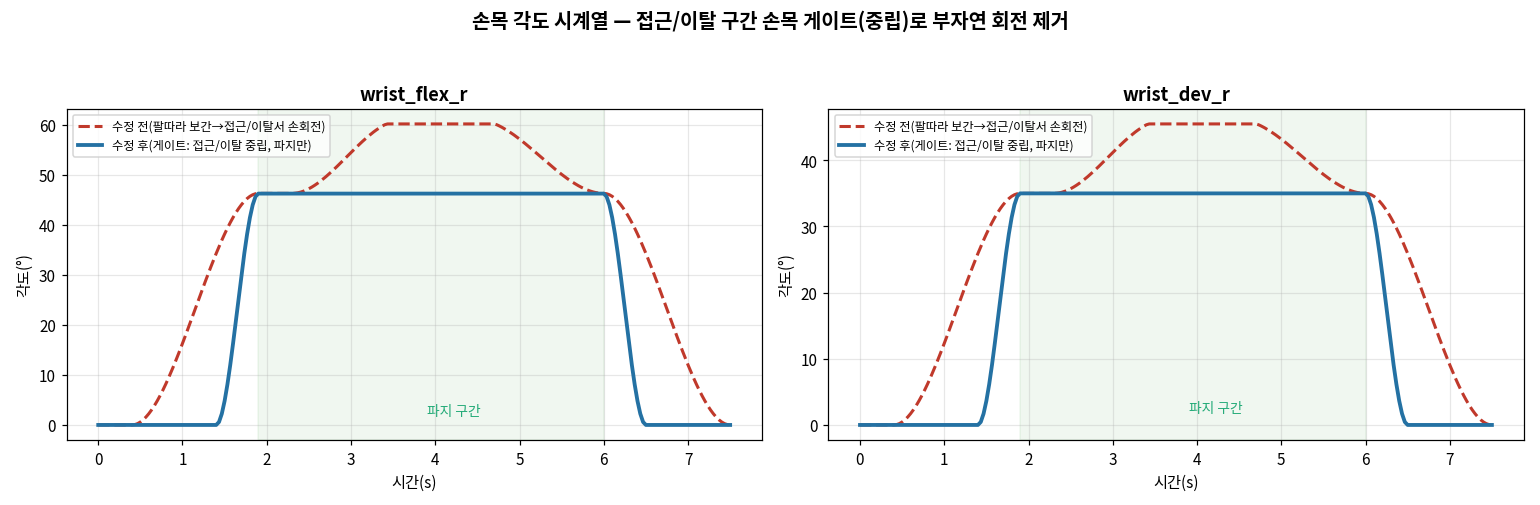
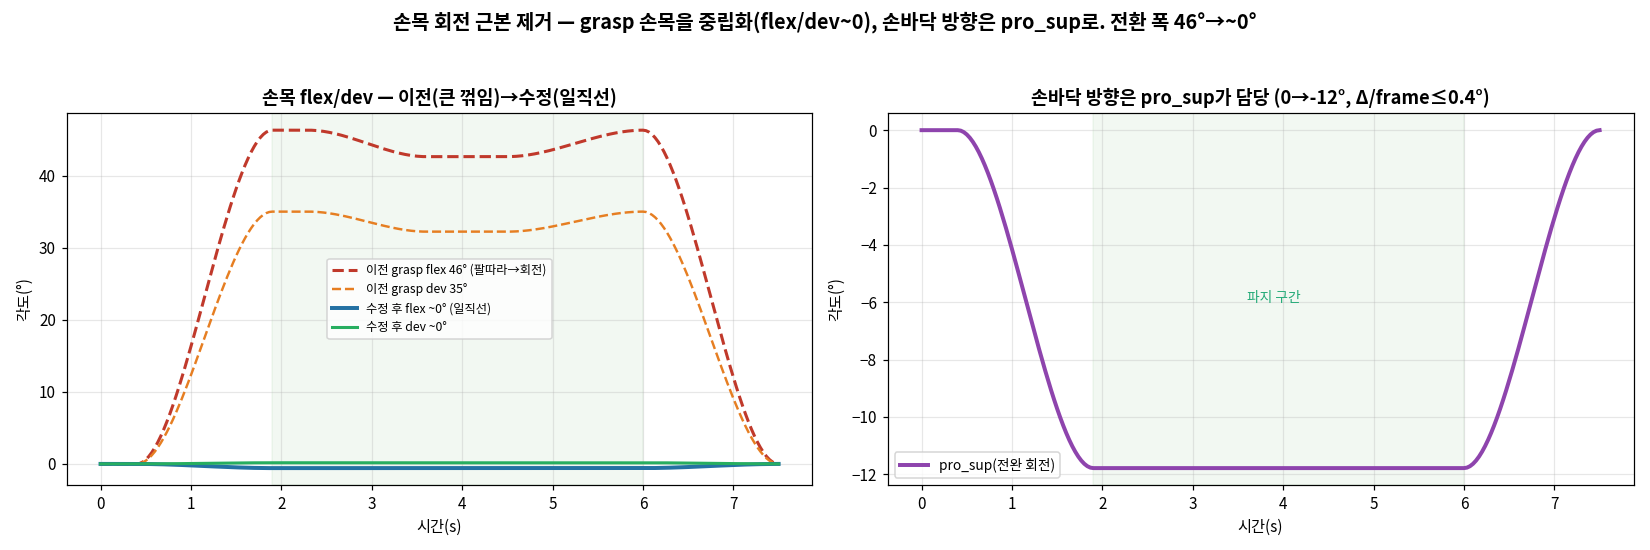
fix: 손목 회전 근본 제거 — grasp 손목 중립화(flex 46°→~0°), 손바닥 방향은 pro_sup
- 원인(2차): 1차 게이트는 '언제 바꿀지'만 정하고 전환 폭(0→46/35°)은 그대로 → 회전이 경계로 밀렸을 뿐. 근본은 grasp 손목각(flex46/dev35)이 과함
- 수정: wrist_neutral_resolve.py로 grasp 팔 IK 재해결(body 고정=spine 불변). wrist_flex/dev 최소화 페널티, 손바닥 방향은 pro_sup 담당. 결과 flex-1/dev0/pro_sup-12, palmN 여전히 -z(박스향)
- 게이트 제거: grasp 손목이 중립이라 전환 폭 ~0 → reach 전체 자연보간. 손목 flex/dev 전구간~0(일직선), pro_sup만 0→-12° 매끄럽게(Δ/frame≤0.4°)
- 독립검증 PASS: 손목 시계열 일직선+pro_sup매끄럽, 잡기직전·손뗀직후 촘촘시퀀스(0.1s) 회전 프레임 없음, 파지 유지
- 손목은 척추 무관, 팔 재해결도 hand 위치 ~1cm 이동(무시)→SO/ES 재실행 불필요, 정량 0
- 재렌더 mp4 + 손목시계열(전후) + 전환 촘촘 시퀀스(앞/3-4각)

Generated with Claude Code

diff --git a/opensim_analysis/thoracolumbar_fb/scripts/viz_knee_fix/wrist_neutral_resolve.py b/opensim_analysis/thoracolumbar_fb/scripts/viz_knee_fix/wrist_neutral_resolve.py
@@ -1,0 +1,58 @@
+"""Re-solve ONLY the grasp arm with a NEUTRAL-WRIST preference (palm direction via pro_sup,
+wrist_flex/dev minimized). Body pose is loaded fixed from m1_pose.json (spine unchanged ->
+SO/ES stay valid). Keeps palm on the box side face + palm facing -z + fingers down + elbow down.
+Writes updated m1_pose.json (arm only). Prints before/after wrist angles + palm check."""
+import opensim as osim, numpy as np, json, os
+from scipy.optimize import minimize
+P="/data/opensim_models/ThoracolumbarFB/Fullbody_TLModels_v2.0_OS4x/MaleFullBodyModel_v2.0_OS4_modified_no_coupler_M1scap.osim"
+POSE='/tmp/cmp_render/m1_pose.json'
+m=osim.Model(P); state=m.initSystem(); cs=m.getCoordinateSet(); names=[cs.get(i).getName() for i in range(cs.getSize())]
+for n in ['pro_sup_r','wrist_flex_r','wrist_dev_r']: cs.get(n).setLocked(state,False)
+comps={c.getName():c for c in (osim.PhysicalFrame.safeDownCast(x) for x in m.getComponentsList()) if c}
+hfR=[comps[f'hand_R_geom_frame_{i}'] for i in range(1,30) if f'hand_R_geom_frame_{i}' in comps]
+PFR={'thumb':comps['hand_R_geom_frame_9'],'pinky':comps['hand_R_geom_frame_13'],'midtip':comps['hand_R_geom_frame_21'],'midmc':comps['hand_R_geom_frame_11']}
+def fp(pf): q=pf.getPositionInGround(state); return np.array([q.get(0),q.get(1),q.get(2)])
+def palmR():
+    d=fp(PFR['midtip'])-fp(PFR['midmc']); d/=np.linalg.norm(d)+1e-9
+    r=fp(PFR['thumb'])-fp(PFR['pinky']); r/=np.linalg.norm(r)+1e-9
+    n=-np.cross(d,r); return n/(np.linalg.norm(n)+1e-9)
+def setc(d):
+    for k,v in d.items():
+        if k in names: c=cs.get(k); c.setValue(state,(v if c.getMotionType()==2 else np.deg2rad(v)),False)
+def Jt(j): p=m.getJointSet().get(j).getChildFrame().getPositionInGround(state); return np.array([p.get(0),p.get(1),p.get(2)])
+def Bd(n): p=m.getBodySet().get(n).getPositionInGround(state); return np.array([p.get(0),p.get(1),p.get(2)])
+def realize(): m.assemble(state); m.realizePosition(state)
+FLOOR=-0.905; EDGE=0.18; TOPb=FLOOR+0.30; BOX=0.30; BCX=EDGE+0.16; HALF=BOX/2; GRIP_H=0.16
+palmT=np.array([BCX-HALF+0.05,TOPb+GRIP_H,HALF]); tipT=np.array([BCX-HALF+0.05,TOPb+GRIP_H-0.14,HALF])
+pose=json.load(open(POSE)); setc(pose); realize()
+print("BEFORE  wrist_flex=%.0f wrist_dev=%.0f pro_sup=%.0f  palm_err=%.1fcm palmN=%s"%(
+    np.degrees(cs.get('wrist_flex_r').getValue(state)),np.degrees(cs.get('wrist_dev_r').getValue(state)),
+    np.degrees(cs.get('pro_sup_r').getValue(state)),np.linalg.norm(fp(PFR['midmc'])-palmT)*100,np.round(palmR(),2)))
+# re-solve arm: same reach/palm/elbow constraints + NEUTRAL WRIST penalty (flex,dev->0; pro_sup free for palm dir)
+RC=['clav_prot_r','clav_elev_r','shoulder_elv_r','elv_angle_r','shoulder_rot_r','elbow_flexion_r','pro_sup_r','wrist_flex_r','wrist_dev_r']
+lb=np.array([0,-25,0,-90,-90,0,-90,-30,-20]); ub=np.array([48,25,155,155,45,150,90,30,20])  # wrist_flex/dev tight -30..30
+x0=np.array([pose.get(k,0.0) for k in RC])
+def aobj(y):
+    y=np.clip(y,lb,ub); p=dict(pose)
+    for k,v in zip(RC,y): p[k]=v
+    setc(p); realize()
+    pe=np.linalg.norm(fp(PFR['midmc'])-palmT); te=np.linalg.norm(fp(PFR['midtip'])-tipT); pn=palmR()
+    hh=np.array([fp(pf) for pf in hfR]); pen=((hh[:,0]>BCX-HALF)&(hh[:,0]<BCX+HALF)&(np.abs(hh[:,2])<HALF-0.005)&(hh[:,1]>TOPb)&(hh[:,1]<TOPb+BOX)).sum()
+    elb=Jt('elbow'); sh=Bd('humerus_R')
+    elbow_high=max(0,elb[1]-(sh[1]-0.16)); elbow_out=max(0,elb[2]-(sh[2]+0.03))
+    wrist_neutral=(y[7]**2+y[8]**2)/500.0   # minimize wrist_flex^2+wrist_dev^2 (deg) -> near-straight wrist
+    return pe*2+te*2+1.0*(1+pn[2])+0.03*pen+3.5*elbow_high+3.5*elbow_out+wrist_neutral
+best=None
+for s_ in range(60):
+    x=x0 if s_==0 else lb+(ub-lb)*np.random.RandomState(s_).rand(len(RC))
+    rr=minimize(aobj,x,method='Nelder-Mead',options={'maxiter':3000})
+    if best is None or rr.fun<best.fun: best=rr
+y=np.clip(best.x,lb,ub)
+for k,v in zip(RC,y): pose[k]=float(v)
+pose['clav_prot_l']=-pose.get('clav_prot_r',0.0); pose['clav_elev_l']=pose.get('clav_elev_r',0.0)
+setc(pose); realize()
+pe=np.linalg.norm(fp(PFR['midmc'])-palmT)*100; te=np.linalg.norm(fp(PFR['midtip'])-tipT)*100
+print("AFTER   wrist_flex=%.0f wrist_dev=%.0f pro_sup=%.0f  palm_err=%.1fcm tip=%.1fcm palmN=%s"%(
+    y[7],y[8],y[6],pe,te,np.round(palmR(),2)))
+json.dump(pose, open(POSE,'w'))
+print("SAVED updated m1_pose.json (body/spine unchanged, arm wrist neutralized)")

diff --git a/opensim_analysis/thoracolumbar_fb/scripts/viz_knee_fix/make_boxlift_motion_stoop.py b/opensim_analysis/thoracolumbar_fb/scripts/viz_knee_fix/make_boxlift_motion_stoop.py
@@ -75,19 +75,10 @@ def kp(t):
     if t<7.5: a=sm((t-6.0)/1.5); return {c:(1-a)*P_grasp[c]+a*P_stand[c] for c in coords}       # release + stand (1.5s, = descent, no spike)
     return P_stand
 rows=[]
-# wrist orientation gate: neutral during approach/departure, grasp orientation only while gripping
-# (avoids the unnatural wrist roll when interpolating wrist_flex/dev from 0 on a swinging arm)
-WRIST=[c for c in ['pro_sup_r','wrist_flex_r','wrist_dev_r','pro_sup_l','wrist_flex_l','wrist_dev_l'] if c in coords]
-def wrist_alpha(t):
-    if t<1.4: return 0.0
-    if t<1.9: return sm((t-1.4)/0.5)     # orient wrist as hand nears box
-    if t<6.0: return 1.0                  # gripping
-    if t<6.5: return sm((6.5-t)/0.5)      # release -> neutral
-    return 0.0
+# wrist is now NEUTRAL at grasp (flex~-1, dev~0; palm dir via pro_sup~-12) -> small values
+# interpolate smoothly over the full reach with no gate needed (no wrist roll).
 for t in ts:
     pose=dict(kp(t)); pose['pelvis_tx']=0; pose['pelvis_ty']=0
-    wa=wrist_alpha(t)
-    for w in WRIST: pose[w]=P_grasp.get(w,0.0)*wa   # gate wrist to grasp orientation only while gripping
     setc(pose); m.assemble(state); m.realizePosition(state)
     pose['pelvis_ty']=FLOOR-lowest_foot()
     setc(pose); m.assemble(state); m.realizePosition(state)
